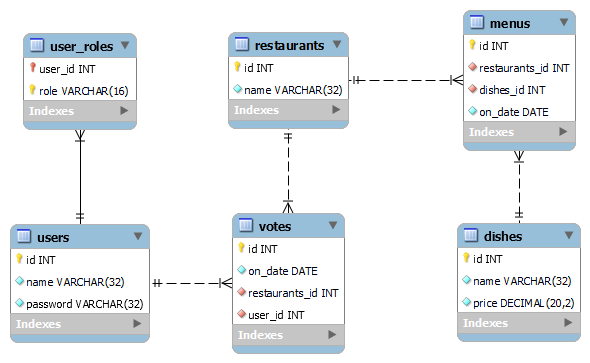
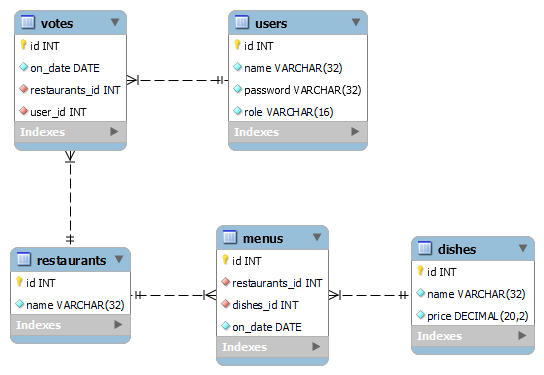
refactor: support one role for one user

diff --git a/README.md b/README.md
@@ -20,6 +20,7 @@ P.S.: Make sure everything works with latest version that is on github :)
 P.P.S.: Assume that your API will be used by a frontend developer to build frontend on top of that.
 
 Diagram of entities / tables:
+
 ![diagram.png](diagram.png)
 
 ## Using cURL for manage system for deciding where to have lunch by REST queries
@@ -29,8 +30,8 @@ Diagram of entities / tables:
 | [/rest/restaurants/menus](#Displays-menus-of-restaurants-on-current-date)                                                 | GET    | USER  | displays menus of restaurants on current date                                |
 | [/rest/restaurants/votes](#Display-amount-votes-on-restaurants-on-current-date)                                           | GET    | USER  | displays amount votes for restaurants on current date                        |
 | [/rest/restaurants/votes/{vote-id}](#Get-vote-by-id)                                                                      | GET    | USER  | get vote by id                                                               |
-| [/rest/restaurants/{restaurant-id}/votes](#Add-only-one-vote-for-the-restaurant-on-current-date)                          | POST   | USER  | add only one vote for the restaurant on current date, if it's before 11:00   |
-| [/rest/restaurants/{restaurant-id}/votes](#Change-vote-for-the-restaurant-on-current-date)                                | PUT    | USER  | change vote for the restaurant on current date, if it's before 11:00         |
+| [/rest/restaurants/votes](#Add-only-one-vote-for-the-restaurant-on-current-date)                                          | POST   | USER  | add only one vote for the restaurant on current date, if it's before 11:00   |
+| [/rest/restaurants/votes/{vote-id}](#Change-vote-for-the-restaurant-on-current-date)                                      | PATCH  | USER  | change vote for the restaurant on current date, if it's before 11:00         |
 | [/rest/profile/vote](#Displays-vote-of-the-user-on-current-date)                                                          | GET    | USER  | displays vote of the user on current date                                    |
 | [/rest/admin/restaurants](#Displays-dictionary-of-restaurants)                                                            | GET    | ADMIN | displays dictionary of restaurants                                           |
 | [/rest/admin/restaurants/{restaurant-id}](#Get-restaurant-by-id)                                                          | GET    | ADMIN | get restaurant by id                                                         |
@@ -143,17 +144,12 @@ Status: 200 OK
 ```
 {
     "id":1,
-    "date":"2021-01-01",
     "restaurant":
         {
             "id": 2,
             "name": "Good restaurant"
         },
-    "user":
-        {
-            "id:3,
-            "name":"user"
-        }
+    "date":"2021-01-01"
 } 
 ```
 
@@ -166,7 +162,8 @@ Code samples (shell)
 ```shell
 curl \
   -X POST \
-  http://localhost:8080/wthl/rest/restaurants/{restaurant-id}/votes
+  http://localhost:8080/wthl/rest/restaurants/votes
+  -d '{"restaurantsId":2}'
 ```
 
 Response
@@ -178,18 +175,13 @@ Location: /rest/restaurants/votes/{vote-id}
 
 ```
 {
-    "id":1,
-    "date":"2021-01-01",
+    "id":4,
     "restaurant":
         {
             "id": 2,
             "name": "Good restaurant"
         },
-    "user":
-        {
-            "id:3,
-            "name":"user"
-        }
+    "date":"2021-01-01"
 } 
 ```
 
@@ -201,8 +193,9 @@ Code samples (shell)
 
 ```shell
 curl \
-  -X PUT \
-  http://localhost:8080/wthl/rest/restaurants/{restaurant-id}/votes 
+  -X PATCH \
+  http://localhost:8080/wthl/rest/restaurants/votes/{vote-id} 
+  -d '{"id":4,"restaurantsId":3}'
 ```
 
 Response
@@ -232,17 +225,12 @@ Status: 200 OK
 ```
 {
     "id":1,
-    "date":"2021-01-01",
     "restaurant":
         {
             "id": 2,
             "name": "Good restaurant"
         },
-    "user":
-        {
-            "id:3,
-            "name":"user"
-        }
+    "date":"2021-01-01"
 } 
 ```
 
@@ -445,7 +433,7 @@ Status: 200 OK
 ]
 ```
 
-### Displays dictionary of menus the restaurant in the date
+### Displays dictionary of menus the restaurant on the date
 
 The operation available for ADMIN role
 
